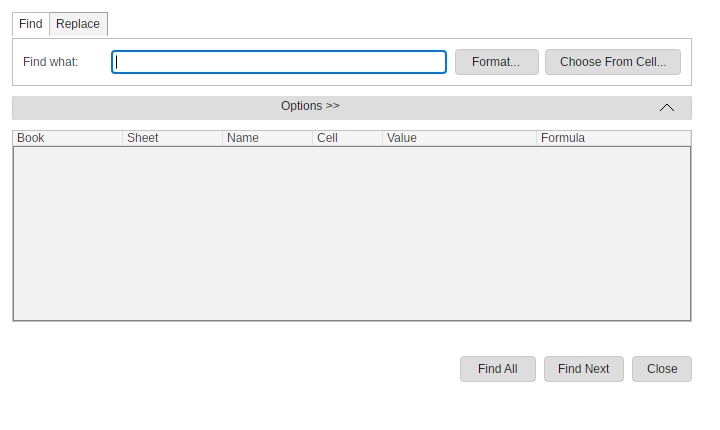
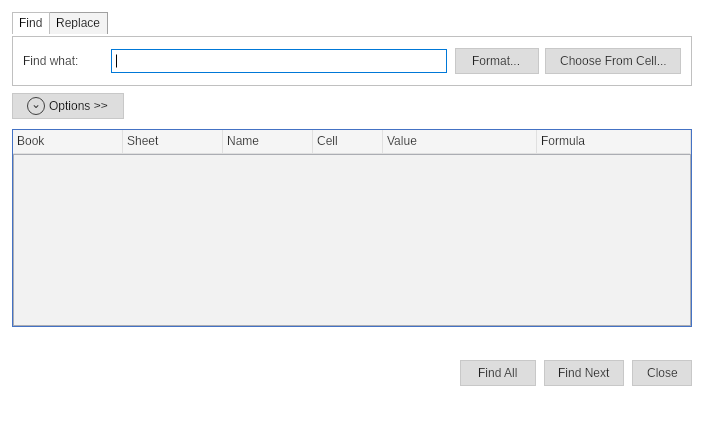
Align FreeX Avalonia Find Replace tab heights

diff --git a/src/FreeX.App.Avalonia/MainWindow.cs b/src/FreeX.App.Avalonia/MainWindow.cs
@@ -14661,9 +14661,9 @@ public sealed partial class MainWindow : Window, IFormulaPointModeWorkbookWindow
         {
             Items = { findTabItem, replaceTabItem },
             SelectedIndex = replaceMode ? 1 : 0,
-            Height = FindReplaceDialogPlanner.TabHeight,
-            MinHeight = FindReplaceDialogPlanner.TabHeight,
-            MaxHeight = FindReplaceDialogPlanner.TabHeight,
+            Height = replaceMode ? FindReplaceDialogPlanner.ReplaceTabHeight : FindReplaceDialogPlanner.FindTabHeight,
+            MinHeight = replaceMode ? FindReplaceDialogPlanner.ReplaceTabHeight : FindReplaceDialogPlanner.FindTabHeight,
+            MaxHeight = replaceMode ? FindReplaceDialogPlanner.ReplaceTabHeight : FindReplaceDialogPlanner.FindTabHeight,
         };
         AutomationProperties.SetAutomationId(tabs, "FindReplaceTabs");
         AvaloniaCompactDialogChrome.ApplyClassicTabChrome(tabs);
@@ -14871,6 +14871,12 @@ public sealed partial class MainWindow : Window, IFormulaPointModeWorkbookWindow
         }
         tabs.SelectionChanged += (_, _) =>
         {
+            var tabHeight = OnReplaceTab()
+                ? FindReplaceDialogPlanner.ReplaceTabHeight
+                : FindReplaceDialogPlanner.FindTabHeight;
+            tabs.Height = tabHeight;
+            tabs.MinHeight = tabHeight;
+            tabs.MaxHeight = tabHeight;
             UpdateButtonVisibility();
             if (dialog.IsVisible)
                 Dispatcher.UIThread.Post(FocusSearchBox, DispatcherPriority.Input);

diff --git a/tests/FreeX.App.Avalonia.Tests/DialogVisualParitySourceTests.cs b/tests/FreeX.App.Avalonia.Tests/DialogVisualParitySourceTests.cs
@@ -13,7 +13,8 @@ public sealed class DialogVisualParitySourceTests
         source.Should().Contain("var findBox = new TextBox { Text = _session.LastFindText, MinWidth = FindReplaceDialogPlanner.FieldMinWidth };");
         source.Should().Contain("findFormatButton.Margin = new Thickness(FindReplaceDialogPlanner.FormatButtonMargin, 0, 0, 0);");
         source.Should().Contain("findChooseFormatButton.Margin = new Thickness(FindReplaceDialogPlanner.AdjacentFormatButtonMargin, 0, 0, 0);");
-        source.Should().Contain("Height = FindReplaceDialogPlanner.TabHeight,");
+        source.Should().Contain("Height = replaceMode ? FindReplaceDialogPlanner.ReplaceTabHeight : FindReplaceDialogPlanner.FindTabHeight,");
+        source.Should().Contain("tabs.Height = tabHeight;");
         source.Should().Contain("ColumnDefinitions = new ColumnDefinitions($\"{FindReplaceDialogPlanner.FieldLabelColumnWidth},*,Auto,Auto,Auto\")");
         source.Should().Contain("new Thickness(6, 1)");
         source.Should().Contain("BorderBrush = Brush(68, 114, 196)");

diff --git a/src/FreeX.App.Services/FindReplaceDialogPlanner.cs b/src/FreeX.App.Services/FindReplaceDialogPlanner.cs
@@ -23,7 +23,9 @@ public static class FindReplaceDialogPlanner
     public const double ChooseFormatButtonWidth = 136;
     public const double FormatButtonMargin = 8;
     public const double AdjacentFormatButtonMargin = 6;
-    public const double TabHeight = 108;
+    // WPF's auto-sized tab host heights at the shared 720x430 evidence target.
+    public const double FindTabHeight = 74;
+    public const double ReplaceTabHeight = 108;
     public const double ResultsMinimumHeight = 120;
     public const double ResultsBottomMargin = 7;
     public const double ResultsHeaderHeight = 24;

diff --git a/tests/FreeX.App.Services.Tests/GoToDialogPlannerTests.cs b/tests/FreeX.App.Services.Tests/GoToDialogPlannerTests.cs
@@ -20,6 +20,8 @@ public sealed class GoToDialogPlannerTests
     {
         FindReplaceDialogPlanner.RootMargin.Should().Be(12);
         FindReplaceDialogPlanner.TabContentMargin.Should().Be(10);
+        FindReplaceDialogPlanner.FindTabHeight.Should().Be(74);
+        FindReplaceDialogPlanner.ReplaceTabHeight.Should().Be(108);
         FindReplaceDialogPlanner.FieldLabelColumnWidth.Should().Be(88);
         FindReplaceDialogPlanner.FieldMinWidth.Should().Be(260);
         FindReplaceDialogPlanner.FormatButtonWidth.Should().Be(84);

diff --git a/docs/parity/avalonia-wpf-cross-app-dashboard.md b/docs/parity/avalonia-wpf-cross-app-dashboard.md
@@ -8,7 +8,7 @@ Generated by `tools/Generate-CrossAppParityDashboard.ps1` from existing generate
 
 | App | Primary evidence | Current generated state | Next slice |
 |---|---|---|---|
-| FreeX | Functional matrix, classifier, dialog inventory, dialog visual evidence, command surface | 546 functional commands; 540 command inventory parity; 0 Avalonia-missing; 0 real classified binding gaps; 0 catalog-backed pseudo-gallery rows (0 conditional-format, 0 font/border, 0 accounting-symbol); 57/57 dialog routes captured on WPF and Avalonia; 94 paired screenshot surface ids, 0 Avalonia-only ids, 0 WPF-only ids; 0 scale-aware dimension mismatches; 0 unresolved high-delta visual review candidates at triage score >= 0.4 (highest 0.094953); 27 raw PNG pixel dimension mismatches, of which 27 normalize by capture DPI. These are coverage/triage metrics, not a visual-parity claim. | Command/dialog route coverage is complete for the generated inputs: all 0 pseudo-gallery rows are catalog-backed in classifier evidence (0 conditional-format rows over 38 runtime catalog items, 0 font/border rows, and 0 accounting-symbol rows), and dialog screenshot evidence has 94 paired WPF/Avalonia manifest surface ids with 0 Avalonia-only ids. This is coverage and size-comparability evidence, not visual parity. The paired screenshots retain 0 unresolved high-delta visual review candidates at triage score >= 0.4 (highest 0.094953); keep those candidates separate from 0 scale-aware dimension mismatch rows and 27 raw PNG pixel dimension mismatches. |
+| FreeX | Functional matrix, classifier, dialog inventory, dialog visual evidence, command surface | 546 functional commands; 540 command inventory parity; 0 Avalonia-missing; 0 real classified binding gaps; 0 catalog-backed pseudo-gallery rows (0 conditional-format, 0 font/border, 0 accounting-symbol); 57/57 dialog routes captured on WPF and Avalonia; 94 paired screenshot surface ids, 0 Avalonia-only ids, 0 WPF-only ids; 0 scale-aware dimension mismatches; 0 unresolved high-delta visual review candidates at triage score >= 0.4 (highest 0.092952); 27 raw PNG pixel dimension mismatches, of which 27 normalize by capture DPI. These are coverage/triage metrics, not a visual-parity claim. | Command/dialog route coverage is complete for the generated inputs: all 0 pseudo-gallery rows are catalog-backed in classifier evidence (0 conditional-format rows over 38 runtime catalog items, 0 font/border rows, and 0 accounting-symbol rows), and dialog screenshot evidence has 94 paired WPF/Avalonia manifest surface ids with 0 Avalonia-only ids. This is coverage and size-comparability evidence, not visual parity. The paired screenshots retain 0 unresolved high-delta visual review candidates at triage score >= 0.4 (highest 0.092952); keep those candidates separate from 0 scale-aware dimension mismatch rows and 27 raw PNG pixel dimension mismatches. |
 | FreeW | Generated command inventory plus dialog rendered evidence | 940 commands; 490 shared-profile; 0 actionable WPF-missing; 0 actionable Avalonia-missing; 402 profile-shape-only; 43 command-id aliases; 5 platform-only; 0 deferred; 295 rendered comparison rows | Backstage print/export, WordArt/watermark, table/page-composition, shape/object, SmartArt polygon, and chart visual proof now have paired WPF/Avalonia renderer contracts plus no-Word real-capture smoke runs; chart proof also validates shared chart data signatures across hosts. All-up no-Word runner fallback drift is classified as runner evidence hygiene, and the standalone no-Word runner now writes a post-summary readiness manifest with comparable scenario IDs, candidate Word PNG baseline paths, remaining blocker IDs, and an explicit no-authoritative-Word-PNG-parity claim. Next FreeW evidence slices are the same runs with real Word PNG baselines on a Word-capable host and broader Word-authoritative drawing/object/chart/table comparisons. |
 | FreeP | Generated command inventory plus dialog/whole-window rendered evidence | 645 commands; 645 shared-profile; 0 actionable WPF-missing; 0 actionable Avalonia-missing; 0 platform-only; 103 workflow evidence rows; 61 paired rendered scenarios | Layout picker, table picker, rich inline table/text editing, shared visible list galleries, picture-bullet import/rendering plus picker/media authoring, slide-pane reorder, bottom New Slide, notes-page preview/PDF rendering, fixed-layout PDF connector, image, triangle-arrowhead, rotation, ellipse, picture-frame/crop/alpha/color-effect, shape-opacity export, and PDF visual-baseline readiness with WPF/Avalonia page-raster artifact patterns plus paired diff-report targets, export/backstage package-handoff, presenter recording backend contracts plus capture-adapter readiness and paired backend injection, captured PPTX media and generated WebVTT caption artifact authoring, focused PowerPoint-native caption package retention including external caption relationship metadata, native media/caption sidecar package depth, and caption relationship-id collision remapping, shared chart number/date label rendering plus edge/mixed manual-layout bounds, surface grid plus projected contour/wireframe/3-D surface geometry plus 3-D pie lower-depth rendering, stock OHLC capture-readiness metadata, and PowerPoint/WPF/Avalonia chart baseline capture readiness, SmartArt basic hierarchy plus vertical bullet list plus basic cycle plus radial cycle plus gear cycle plus text cycle plus basic, continuous block, segmented, chevron, alternating, funnel, circle, and arrow-ribbon process plus basic block list plus vertical box list plus stacked list plus basic pyramid plus bounded pictureCaptionList live layout plus basic/radial/stacked Venn and target-list relationship layouts plus shared outline reorder/promote/demote editing, data-part authoring, text-pane/cache-regeneration authoring, and matching thin WPF/Avalonia text-pane host controls with bounded keyboard routes, header/footer placeholder creation plus inherited layout/master geometry, title-slide suppression, fixed/auto date options, shared OMML fraction-type variants, matrix spacing/base alignment, delimiter grow semantics, accent/bar render-plan coverage, manual line breaks, boxed equation-array alignment points, transparent phantom spacing classes, pre-sub/superscript layout, matrix empty-cell placeholder handling, and group-character vertical justification, ink execution with repeated custom-show route retention, modern comments/review with shared mention candidate and insertion planning, accessibility/proofing workflow depth, animation-pane row/playback workflow evidence, paired real Windows microphone narration handoff, paired Windows camera handoff readiness, paired default no-COM camera handoff/package-target readiness without encoded-payload or PowerPoint-baseline claims, deterministic encoded camera media payload artifacts through host-specific PPTX package paths, and paired OS-backed unavailable-hardware/no-device recording evidence now have WPF/Avalonia no-COM evidence paths. Continue workflow-depth slices in live capture on real microphone/camera hardware, actual local default no-COM camera video encoding that produces non-empty mp4 payloads, calibrated chart-family acceptance thresholds and remaining type-specific decisions beyond the current PowerPoint baseline-depth/type/label captures, broader SmartArt layout families, remaining OMML constructs/alignment semantics and PowerPoint-authoritative math visual-baseline coverage, broader real-deck PowerPoint-native media/caption baselines, actual PowerPoint PDF/PNG capture and calibrated PDF visual diffs on a COM-capable host, and PowerPoint-authoritative animation-pane visual/playback baselines. |
 

diff --git a/docs/parity/dialog-visual-evidence-summary.md b/docs/parity/dialog-visual-evidence-summary.md
@@ -62,8 +62,6 @@ Outliers are ranked by a deterministic triage score: normalized 32x32 ARGB sampl
 
 | Surface id | WPF logical size | Avalonia logical size | Raw PNG sizes | Bucket | Evidence flag | Score | Sample delta | Luma delta | Non-bg delta |
 | --- | ---: | ---: | --- | --- | --- | ---: | ---: | ---: | ---: |
-| dialog.FindReplace | 720x430 | 720x430 | 720x430 px @ 96 DPI vs 720x430 px @ 96 DPI |  |  | 0.095 | 0.015 | 0.005 | 0.075 |
-| dialog.FindReplace.Find | 720x430 | 720x430 | 720x430 px @ 96 DPI vs 720x430 px @ 96 DPI |  |  | 0.095 | 0.015 | 0.005 | 0.075 |
 | dialog.Zoom | 300x240 | 300x240 | 450x360 px @ 144 DPI vs 300x240 px @ 96 DPI |  |  | 0.093 | 0.034 | 0.015 | 0.045 |
 | dialog.PageSetup | 600x560 | 600x560 | 600x560 px @ 96 DPI vs 600x560 px @ 96 DPI |  |  | 0.091 | 0.025 | 0.007 | 0.059 |
 | dialog.PageSetup.Page | 600x560 | 600x560 | 600x560 px @ 96 DPI vs 600x560 px @ 96 DPI |  |  | 0.091 | 0.025 | 0.007 | 0.059 |
@@ -72,6 +70,8 @@ Outliers are ranked by a deterministic triage score: normalized 32x32 ARGB sampl
 | dialog.TextToColumns | 500x430 | 500x430 | 750x645 px @ 144 DPI vs 500x430 px @ 96 DPI |  |  | 0.089 | 0.068 | 0.009 | 0.012 |
 | dialog.GoalSeekStatus | 380x190 | 380x190 | 380x190 px @ 96 DPI vs 380x190 px @ 96 DPI |  |  | 0.089 | 0.029 | 0.012 | 0.047 |
 | dialog.AddWatch | 360x170 | 360x170 | 540x255 px @ 144 DPI vs 360x170 px @ 96 DPI |  |  | 0.088 | 0.054 | 0.000 | 0.033 |
+| dialog.CreateTable | 360x190 | 360x190 | 540x285 px @ 144 DPI vs 360x190 px @ 96 DPI |  |  | 0.086 | 0.040 | 0.004 | 0.041 |
+| dialog.About | 560x420 | 560x420 | 840x630 px @ 144 DPI vs 560x420 px @ 96 DPI |  |  | 0.085 | 0.055 | 0.009 | 0.020 |
 
 ## Scale-Aware Dimension Mismatch Details
 
@@ -106,9 +106,9 @@ These rows have a DPI-normalized checked-in PNG size that disagrees with the dia
 | dialog.ErrorChecking | dialog.ErrorChecking.png | 720x420 | 720x420 px @ 96 DPI | True | dialog.ErrorChecking.png | 720x420 | 720x420 px @ 96 DPI | True | True | 0.047 |
 | dialog.EvaluateFormula | dialog.EvaluateFormula.png | 600x360 | 900x540 px @ 144 DPI | True | dialog.EvaluateFormula.png | 600x360 | 600x360 px @ 96 DPI | True | True | 0.090 |
 | dialog.ExportOptions | dialog.ExportOptions.png | 430x552 | 430x552 px @ 96 DPI | True | dialog.ExportOptions.png | 430x552 | 430x552 px @ 96 DPI | True | True | 0.058 |
-| dialog.FindReplace | dialog.FindReplace.png | 720x430 | 720x430 px @ 96 DPI | True | dialog.FindReplace.png | 720x430 | 720x430 px @ 96 DPI | True | True | 0.095 |
-| dialog.FindReplace.Find | dialog.FindReplace.Find.png | 720x430 | 720x430 px @ 96 DPI | True | dialog.FindReplace.Find.png | 720x430 | 720x430 px @ 96 DPI | True | True | 0.095 |
-| dialog.FindReplace.Replace | dialog.FindReplace.Replace.png | 720x430 | 720x430 px @ 96 DPI | True | dialog.FindReplace.Replace.png | 720x430 | 720x430 px @ 96 DPI | True | True | 0.054 |
+| dialog.FindReplace | dialog.FindReplace.png | 720x430 | 720x430 px @ 96 DPI | True | dialog.FindReplace.png | 720x430 | 720x430 px @ 96 DPI | True | True | 0.054 |
+| dialog.FindReplace.Find | dialog.FindReplace.Find.png | 720x430 | 720x430 px @ 96 DPI | True | dialog.FindReplace.Find.png | 720x430 | 720x430 px @ 96 DPI | True | True | 0.054 |
+| dialog.FindReplace.Replace | dialog.FindReplace.Replace.png | 720x430 | 720x430 px @ 96 DPI | True | dialog.FindReplace.Replace.png | 720x430 | 720x430 px @ 96 DPI | True | True | 0.053 |
 | dialog.ForecastSheet | dialog.ForecastSheet.png | 320x150 | 480x225 px @ 144 DPI | True | dialog.ForecastSheet.png | 320x150 | 320x150 px @ 96 DPI | True | True | 0.057 |
 | dialog.FormatCells | dialog.FormatCells.png | 620x540 | 620x540 px @ 96 DPI | True | dialog.FormatCells.png | 620x540 | 620x540 px @ 96 DPI | True | True | 0.029 |
 | dialog.FormatCells.Alignment | dialog.FormatCells.Alignment.png | 620x540 | 620x540 px @ 96 DPI | True | dialog.FormatCells.Alignment.png | 620x540 | 620x540 px @ 96 DPI | True | True | 0.090 |

diff --git a/docs/parity/avalonia-parity-wave117-freex-findreplace-20260803.md b/docs/parity/avalonia-parity-wave117-freex-findreplace-20260803.md
@@ -1,0 +1,36 @@
+# Avalonia Find/Replace Parity Wave117 - 2026-08-03
+
+## Scope
+
+FreeX Find/Replace now models the WPF tab host's natural height per selected tab through
+`FindReplaceDialogPlanner`: 74 DIPs for Find and 108 DIPs for Replace. Avalonia updates
+the fixed host height when the tab changes; WPF XAML and Find/Replace behavior remain the
+authority and are unchanged.
+
+## Current evidence
+
+Fresh current-source captures were taken at the shared 720x430 client size:
+
+- WPF: `docs/parity/dialog-visual-assets/wpf-capture/`
+- Avalonia: `docs/parity/dialog-visual-assets/avalonia-capture/`, from Ubuntu 24.04 Docker/Xvfb
+- Manifest provenance: `docs/parity/dialog-visual-assets/{wpf-capture,avalonia-capture}/manifest.json`
+
+All three surfaces (`dialog.FindReplace`, `.Find`, `.Replace`) are present, nonblank, and
+dimension-matched. The focused visual compare measured 1.569230% for default/Find and
+2.277002% for Replace, with zero hard regressions at the 5% threshold. The pre-fix fresh
+pair measured 2.311486%, 2.311486%, and 2.277002%; the intermediate single-height attempt
+was rejected because it clipped the Replace tab and was not promoted.
+
+## Verification
+
+- `FreeX.App.Services.Tests`: 33 focused planner tests passed.
+- `FreeX.App.Avalonia.Tests`: 8 focused dialog visual-source tests passed.
+- WPF Release build and Avalonia Linux self-contained publish: zero warnings/errors.
+- Generated dialog summary: 94 paired surfaces, zero nonblank failures, zero expected-size mismatches.
+
+## Residuals
+
+Remaining deltas are native Avalonia/WPF text, textbox, button, tab, and list-control
+rasterization differences. The focused three-surface compare intentionally lacks the
+repository-wide `popup.nameBoxDropdown` pair, so its name-box contract reports a failure;
+that is a harness-scope limitation, not a Find/Replace surface absence.
